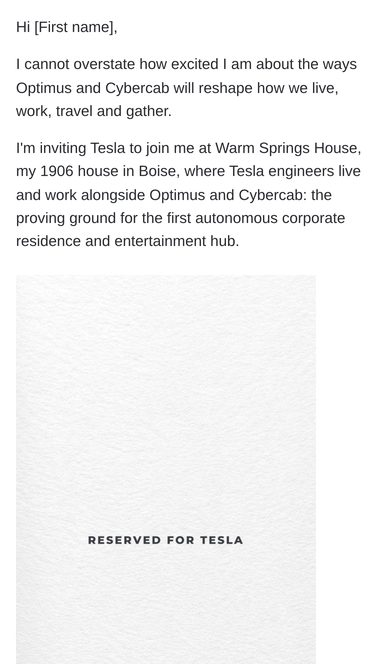
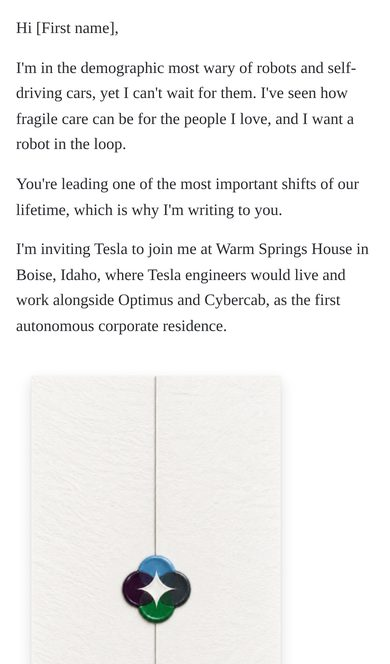
Send kit: walkthrough shows the final email
Claude-Session: https://claude.ai/code/session_018mjyHLtRipED1pdLKidqkG

diff --git a/send-kit/preview.html b/send-kit/preview.html
@@ -139,7 +139,7 @@ code{font-family:ui-monospace,Menlo,Consolas,monospace;font-size:13px;background
   <h3 class="jh">By email</h3>
   <ol class="journey" aria-label="The email path">
       <li class="jstep"><figure class="jphone"><div class="inbox"><div class="ibar">Inbox</div><div class="irow"><span class="idot"></span><div><div class="ifrom">Lisa Wood <span>9:02 AM</span></div><div class="isubj">An invitation for Optimus + Cybercab</div><div class="ipre">Hi [First name], I&#x27;m in the demographic most wary of robots and self-driving cars…</div></div></div><div class="irow dim"><div><div class="ifrom">…</div><div class="isubj">&nbsp;</div></div></div></div></figure><div class="jcap"><span class="jn">1</span><b>It arrives</b><p>From Lisa Wood, lisa@lisawoodstudio.com. Your name, the subject and the first line are all they see before opening. No attachment, nothing hidden, no tracking.</p></div></li>
-      <li class="jstep"><figure class="jphone"><img src="preview-assets/j-email.jpg" width="390" height="664" alt="The email opened on a phone" loading="lazy"></figure><div class="jcap"><span class="jn">2</span><b>They open the email</b><p>A short note, then the card: the seal opens to Reserved for Tesla and loops (8 seconds). It plays inside the email.</p></div></li>
+      <li class="jstep"><figure class="jphone"><img src="preview-assets/j-email.jpg" width="390" height="664" alt="The email opened on a phone" loading="lazy"></figure><div class="jcap"><span class="jn">2</span><b>They open the email</b><p>A short note, then the card floating on white: the seal opens to Reserved for Tesla and a small arrow appears (8 seconds, loops). It plays inside the email.</p></div></li>
       <li class="jstep"><figure class="jphone"><img src="preview-assets/j-drop.jpg" width="390" height="664" alt="Card 1 dropping in" loading="lazy"></figure><div class="jcap"><span class="jn">3</span><b>They tap the card</b><p>warmspringshouse.com/4tesla?card=1 opens. They have just watched the seal open, so the page skips it and Card 1 drops in.</p></div></li>
       <li class="jstep"><figure class="jphone"><img src="preview-assets/j-card1.jpg" width="390" height="664" alt="Card 1 finished" loading="lazy"></figure><div class="jcap"><span class="jn">4</span><b>Card 1 plays</b><p>The house, Warm Springs House, then the words line by line. Full screen on a phone, a framed card on a computer.</p></div></li>
       <li class="jstep"><figure class="jphone"><div class="deck"><img src="preview-assets/j-card2.jpg" width="390" height="693" alt="Card 2" loading="lazy"><img src="preview-assets/j-card3.jpg" width="390" height="693" alt="Card 3" loading="lazy"><img src="preview-assets/j-card4.jpg" width="390" height="693" alt="Card 4" loading="lazy"><img src="preview-assets/j-card5.jpg" width="390" height="693" alt="Card 5" loading="lazy"></div></figure><div class="jcap"><span class="jn">5</span><b>The cards move on by themselves</b><p>Each card plays once, holds long enough to read, then the next slides up over it, until they touch the screen. After that they swipe at their own pace.</p></div></li>
